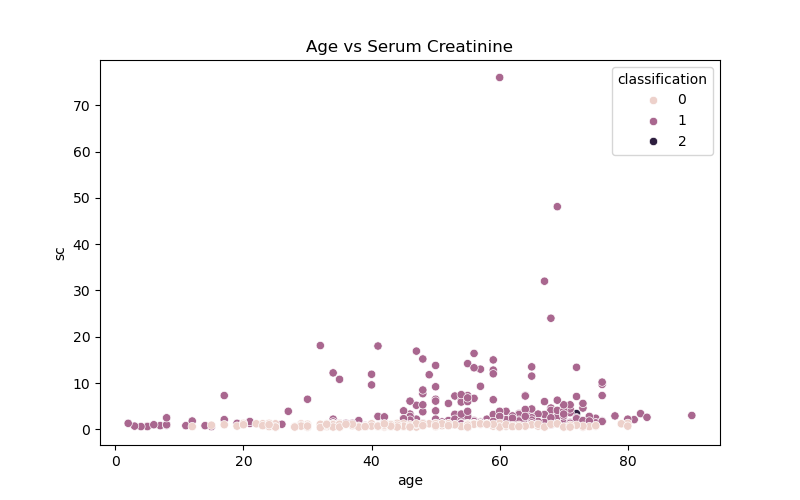
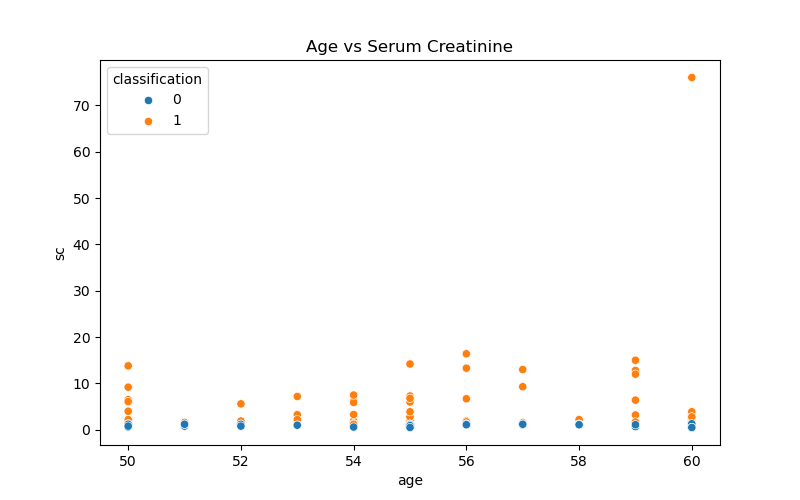
Add age range filter to creatinine visualization
Introduced an age range selector to filter lab report data before generating the age vs serum creatinine visualization. Updated UI elements and file path handling for improved usability.

diff --git a/src/dashboard_app.py b/src/dashboard_app.py
@@ -5,7 +5,7 @@ from report_generator import generate_visuals, generate_summary, create_pdf_repo
 from email_sender import send_email_report
 
 st.set_page_config(layout="wide")
-st.title("🧪 Kidney Lab Report Automation Dashboard")
+st.title("Kidney Lab Report Automation Dashboard")
 
 # File upload
 uploaded_file = st.file_uploader("Upload CSV Lab Report File", type=["csv"])
@@ -13,7 +13,7 @@ uploaded_file = st.file_uploader("Upload CSV Lab Report File", type=["csv"])
 if uploaded_file:
     with st.spinner("Processing file..."):
         # Save uploaded file to data dir
-        file_path = f"D:\Work_USA\Projects\lab-report-automation\data/{uploaded_file.name}"
+        file_path = fr"D:\Work_USA\Projects\lab-report-automation\data/{uploaded_file.name}"
         with open(file_path, "wb") as f:
             f.write(uploaded_file.read())
 
@@ -25,8 +25,16 @@ if uploaded_file:
         st.dataframe(df.head(10), use_container_width=True)
 
         # Generate and display visual
+        st.subheader("Select age range for visualization")
+        age_bins = [0,10,20,30,40,50,60,70,80,90,100]
+        age_labels = [f"{age_bins[i]}-{age_bins[i+1]}" for i in range(len(age_bins)-1)]
+        selected_age_range = st.selectbox("Select the range", age_labels)
+
+        age_low, age_high = map(int, selected_age_range.split('-'))
+        filtered_df = df[(df['age'] >= age_low) & (df['age'] <= age_high)]
+
         st.subheader("📈 Age vs Serum Creatinine")
-        visual_path = generate_visuals(df)
+        visual_path = generate_visuals(filtered_df)
         st.image(visual_path)
 
         # Show summary
